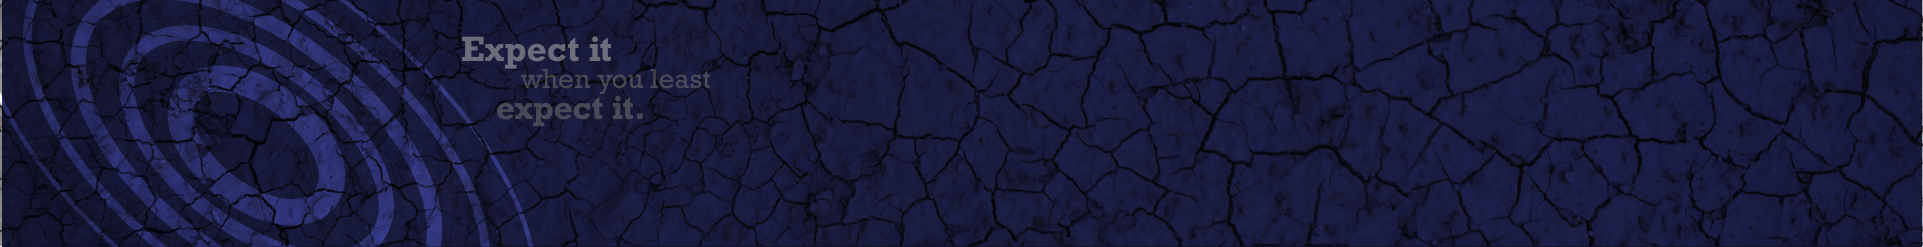
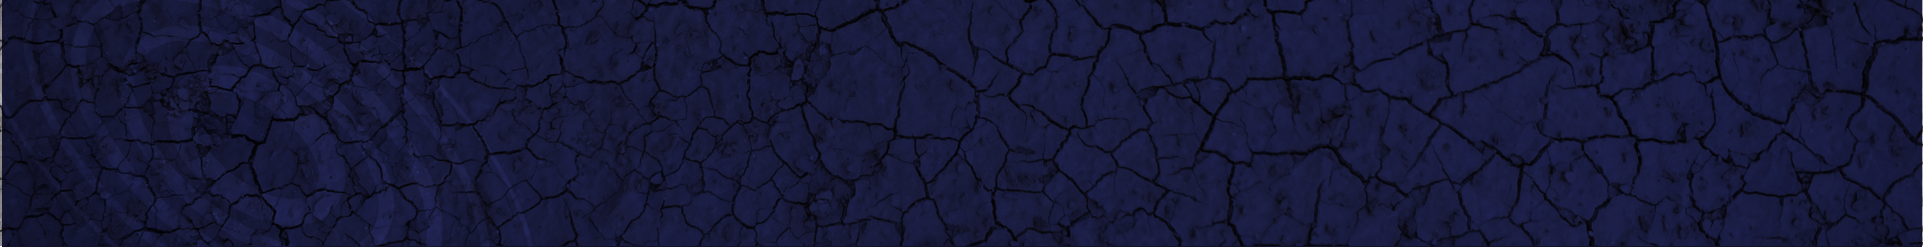
p-v3

Changed region(s): [[0.0, 0.0, 0.3432, 1.0], [0.2496, 0.2834, 0.3744, 0.3684]]

diff --git a/index.html b/index.html
@@ -97,8 +97,10 @@
         <!-- Cards section-->
         <section class="bg-light py-5 border-bottom">
             <div class="text-center mb-5">
-                <h2 class="fw-bolder">Pay as you grow</h2>
-                <p class="lead mb-0">With our no hassle pricing plans</p>
+                <h2 class="fw-bolder">Are you ready for the next big Quake?</h2>
+                <p class="lead mb-0">If an earthquake shook you tomorrow, would you be ready? 
+                    Here you will find the basic information to help you prepare yourself, family, furry 
+                    friends and home for the next big quake. So we can all Ride the Quake in safety. </p>
             </div>
             <div class="container px-5 my-5">
                 <div class="row gx-5 justify-content-center">
@@ -106,11 +108,11 @@
                     <div class="col-lg-6 col-xl-4">
                         <div class="card mb-5 mb-xl-0">
                             <div class="card-body p-5">
-                                <img class="card-image" src="...">
+                                <img class="card-image" src="/images/card-1.png">
                                 <ul class="list-unstyled mb-4">
-                                    <p>lorem ipsum</p>
+                                    <p>How to Act</p>
                                 </ul>
-                                <div class="d-grid"><a class="btn btn-primary" href="#!">Learn More</a></div>
+                                <div class="d-grid"><a class="btn btn-primary" href="/howToAct.html">Learn More</a></div>
                             </div>
                         </div>
                     </div>
@@ -118,11 +120,11 @@
                     <div class="col-lg-6 col-xl-4">
                         <div class="card mb-5 mb-xl-0">
                             <div class="card-body p-5">
-                                <img class="card-image" src="...">
+                                <img class="card-image" src="/images/card-2.png">
                                 <ul class="list-unstyled mb-4">
-                                    <p>lorem ipsum</p>
+                                    <p>Stocking up on Supplies</p>
                                 </ul>
-                                <div class="d-grid"><a class="btn btn-primary" href="#!">Learn More</a></div>
+                                <div class="d-grid"><a class="btn btn-primary" href="/">Learn More</a></div>
                             </div>
                         </div>
                     </div>
@@ -130,9 +132,9 @@
                     <div class="col-lg-6 col-xl-4">
                         <div class="card mb-5 mb-xl-0">
                             <div class="card-body p-5">
-                                <img class="card-image" src="...">
+                                <img class="card-image" src="/images/card-3.png">
                                 <ul class="list-unstyled mb-4">
-                                    <p>lorem ipsum</p>
+                                    <p>Community Resources</p>
                                 </ul>
                                 <div class="d-grid"><a class="btn btn-primary" href="#!">Learn More</a></div>
                             </div>
@@ -215,20 +217,20 @@
                             <p class="font-weight-bold text-white">External Resources</p>
                         </li>
                         <li class="nav-item">
-                            <a class="nav-link" href="#">...</a>
+                            <a class="nav-link" href="https://www.redcross.org/get-help/how-to-prepare-for-emergencies/types-of-emergencies/earthquake.html">Red Cross</a>
                         </li>
                         <li class="nav-item">
-                            <a class="nav-link" href="#">...</a>
+                            <a class="nav-link" href="https://www.usgs.gov/natural-hazards/earthquake-hazards">USGS Earthquake Hazards</a>
                         </li>
                         <li class="nav-item">
-                            <a class="nav-link" href="#">...</a>
+                            <a class="nav-link" href="https://www.osha.gov/earthquakes">OSHA Earthquake</a>
                         </li>
                         <li class="nav-item">
                             <a class="nav-link" href="#">...</a>
                         </li>
                     </ul>
                 </div>
-                <p class="m-0 text-center text-white">Copyright &copy; Your Website 2021</p>
+                <p class="m-0 text-center text-white">Copyright &copy; Ride The Quake 2021</p>
             </div>
         </footer>
         <!-- Bootstrap core JS-->
